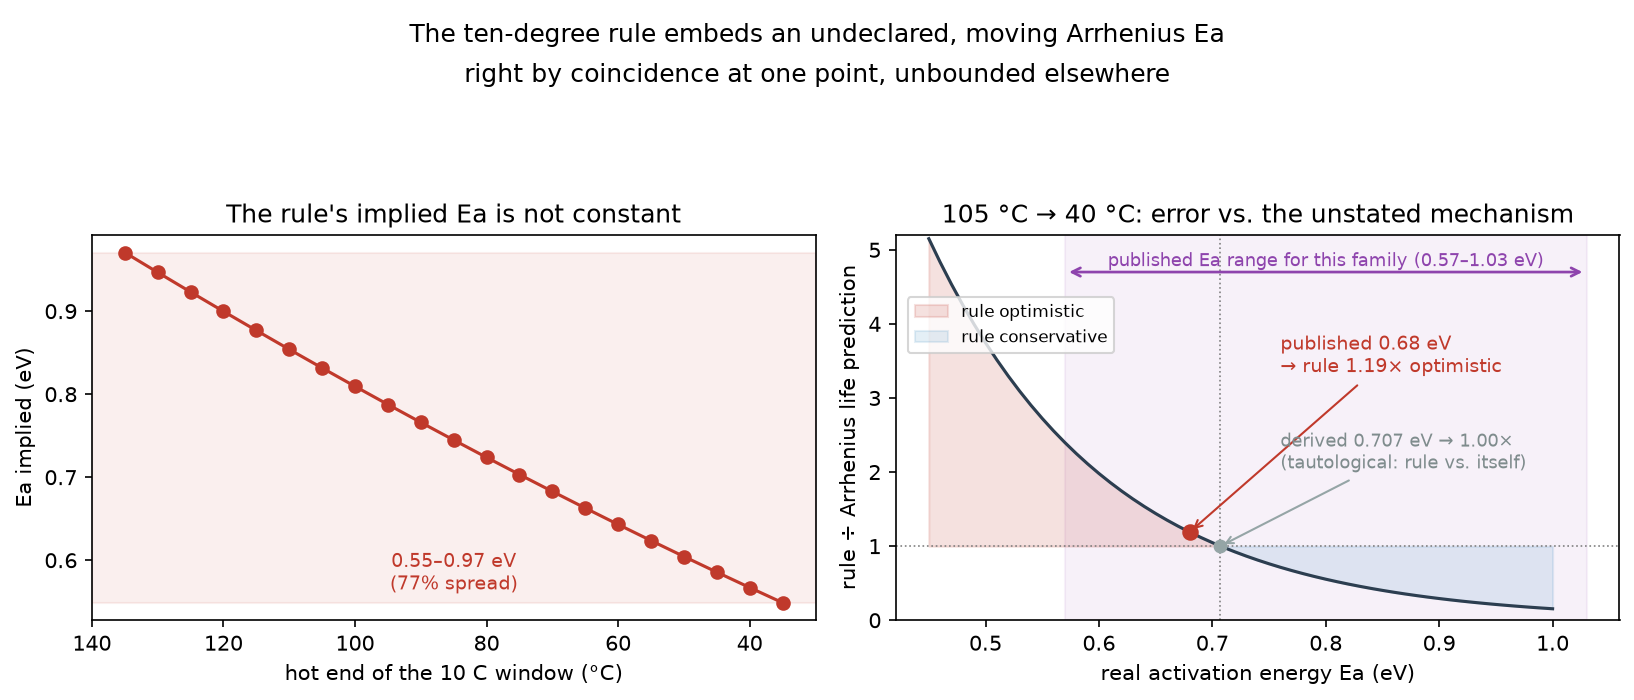
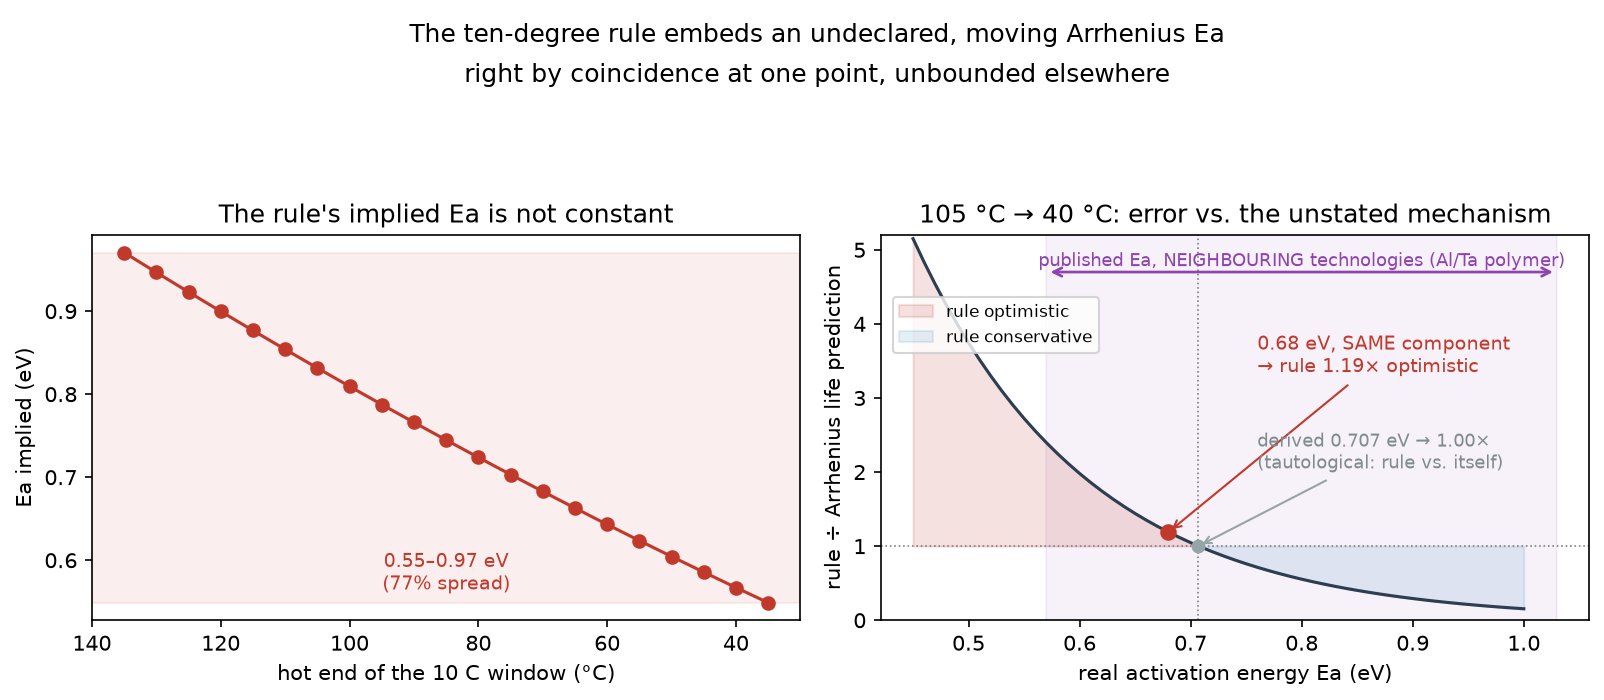
Fix population mixing: only 1 of 6 published Ea is the rule's own target
The user asked directly: "why are we mixing populations?" The answer:
of the six activation energies pulled from the Teverovsky/NASA paper,
only 0.68 eV is measured on liquid aluminum electrolytic capacitors --
the rule's actual target. The other five (0.57, 0.62, 0.73, 0.94, 1.03)
are aluminum- or tantalum-POLYMER capacitors: solid cathode, no liquid
electrolyte, a different dominant aging mechanism. Presenting all six
as "the published Ea for this component family" was equivocation --
the same failure class as the earlier unsourced claim, this time
wearing a real citation that was never scope-checked.

Corrected everywhere:
- verify.py: PUBLISHED_EA now carries an explicit technology field and
  is_rule_target flag; no row can be reported without its technology.
- README SS5 rewritten: the table separates the one same-component
  point from the five neighbouring-technology points; the "crosses
  the rule" finding is now scoped correctly as a claim about
  TRANSFERRING the rule across technologies, not about the intrinsic
  uncertainty of its own target mechanism.
- references.md SS4 documents the correction inline, with the exact
  question that caught it.
- plot.py: the purple band is now labelled "NEIGHBOURING technologies"
  and the red point is labelled "SAME component" to make the
  distinction visible, not just textual.
- 4 tests replaced/added (22 total): pins is_rule_target to exactly
  one row, splits the neighbouring-technology assertions out, and
[…]

diff --git a/verify.py b/verify.py
@@ -106,14 +106,24 @@ def check_bias(l_rated: float = 5000.0, t_rated_c: float = 105.0, t_use_c: float
 # --------------------------------------------------- the published Ea values
 # Every value below was read in full context from Teverovsky, A., "Stress
 # Testing of Chip Aluminum Polymer Capacitors" (NASA GSFC / Jacobs, PCNS).
-# Nothing here comes from a search-engine summary. See references.md §4.
+# Nothing here comes from a search-engine summary. See references.md SS4-5.
+#
+# TECHNOLOGY MATTERS. Only ONE of these six values (0.68 eV) is measured on
+# the rule's actual target component -- liquid aluminum electrolytic
+# capacitors. The other five are aluminum-POLYMER or tantalum-POLYMER parts:
+# solid conductive cathode, no liquid electrolyte, a different dominant aging
+# mechanism. An earlier version of this file listed all six as if they were
+# six estimates of the same quantity -- that was equivocation, caught after
+# the user asked "why are we mixing populations?". Corrected here: each row
+# now carries its technology explicitly, and no function may report a value
+# without it.
 PUBLISHED_EA = [
-    (0.57, "lower bound, measured ESR failures (this study)"),
-    (0.62, "polymer tantalum, average cited [ref 17]"),
-    (0.68, "the rule's own equivalence, as stated by NASA"),
-    (0.73, "aluminum polymer, average MEASURED in this study"),
-    (0.94, "CDE published Ea in their APC life equation"),
-    (1.03, "upper bound, measured ESR failures (this study)"),
+    (0.68, "liquid aluminum electrolytic", "the rule's own target: NASA's stated equivalence"),
+    (0.57, "aluminum polymer", "lower bound, measured ESR failures (this study)"),
+    (0.62, "tantalum polymer", "average cited in this study [ref 17]"),
+    (0.73, "aluminum polymer", "average MEASURED in this study"),
+    (0.94, "aluminum polymer", "CDE published Ea in their own APC life equation"),
+    (1.03, "aluminum polymer", "upper bound, measured ESR failures (this study)"),
 ]
 
 
@@ -122,18 +132,21 @@ def check_published_ea(t_rated_c: float = 105.0, t_use_c: float = 40.0) -> list[
 
     This is the honest version of `check_bias`: instead of sweeping arbitrary
     round numbers, it uses only activation energies that appear in a source
-    that was read in full. The spread of the published values is itself the
-    finding -- the rule cannot know which of them applies to the part in hand.
+    that was read in full -- tagged with the actual component technology,
+    because the technology, not just the number, decides whether a row is
+    evidence about the rule's own target or about a neighbouring one.
     """
-    l_rule = l_rated_af = ten_degree_rule_af(t_rated_c, t_use_c)
+    l_rule = ten_degree_rule_af(t_rated_c, t_use_c)
     rows = []
-    for ea, source in PUBLISHED_EA:
+    for ea, technology, source in PUBLISHED_EA:
         af_arr = math.exp((ea / K_BOLTZMANN_EV)
                           * (1.0 / celsius_to_kelvin(t_use_c)
                              - 1.0 / celsius_to_kelvin(t_rated_c)))
         ratio = l_rule / af_arr
         rows.append({
             "ea_ev": ea,
+            "technology": technology,
+            "is_rule_target": technology == "liquid aluminum electrolytic",
             "rule_over_real": round(ratio, 2),
             "direction": "optimistic" if ratio > 1 else "conservative",
             "source": source,
@@ -198,9 +211,16 @@ def main() -> None:
 
     pub = check_published_ea()
     _print_table("The rule vs. PUBLISHED Ea values (105 C -> 40 C) -- all read in full context", pub)
-    rr = [r["rule_over_real"] for r in pub]
-    print(f"\n  across published values the rule ranges {min(rr):.2f}x to {max(rr):.2f}x")
-    print("  -- and carries no information that would tell you which row you are on.")
+    target = [r for r in pub if r["is_rule_target"]]
+    neighbours = [r for r in pub if not r["is_rule_target"]]
+    print(f"\n  ONLY {len(target)} row matches the rule's own target component "
+          f"(liquid aluminum electrolytic): {target[0]['rule_over_real']:.2f}x")
+    nn = [r["rule_over_real"] for r in neighbours]
+    print(f"  The other {len(neighbours)} rows are NEIGHBOURING technologies (aluminum/tantalum")
+    print(f"  polymer) -- carrying the rule across that boundary swings the error from "
+          f"{min(nn):.2f}x to {max(nn):.2f}x.")
+    print("  Do not read this as six estimates of one uncertainty. It is one confirmed")
+    print("  point plus a caution about applying the rule outside its own technology.")
 
     sens = check_ea_sensitivity()
     print("\n=== Why Ea is not a detail ===")

diff --git a/tests/test_verify.py b/tests/test_verify.py
@@ -77,28 +77,48 @@ def test_acima_de_707_a_regra_fica_conservadora():
 
 
 # ---- os Ea PUBLICADOS (README secao 5) -- a comparacao que nao e circular ----
+# ATENCAO: so 1 das 6 linhas mede o MESMO componente da regra (eletrolitico
+# de aluminio liquido). As outras 5 sao tecnologia vizinha (polimero). Ver o
+# corolario "por que estamos misturando populacoes" em auditar-como-fellow.
 
-def test_contra_o_ea_publicado_a_regra_e_19pct_otimista():
-    """Contra o 0.68 eV que a NASA enuncia, a regra NAO coincide: erra 1.19x."""
-    linha = next(r for r in check_published_ea() if r["ea_ev"] == 0.68)
+def test_so_uma_linha_e_o_alvo_real_da_regra():
+    """A distincao de tecnologia e o achado desta rodada de auditoria: nao e
+    '6 estimativas da mesma incerteza', e 1 ponto confirmado + 5 de outra
+    tecnologia. Nenhuma funcao pode apagar essa distincao."""
+    tabela = check_published_ea()
+    alvo = [r for r in tabela if r["is_rule_target"]]
+    assert len(alvo) == 1
+    assert alvo[0]["ea_ev"] == 0.68
+    assert alvo[0]["technology"] == "liquid aluminum electrolytic"
+
+
+def test_contra_o_unico_ea_do_mesmo_componente_a_regra_e_19pct_otimista():
+    """Contra o 0.68 eV que a NASA enuncia PARA O MESMO COMPONENTE da regra,
+    ela nao coincide: erra 1.19x. Esta e a comparacao que sustenta o post."""
+    linha = next(r for r in check_published_ea() if r["is_rule_target"])
     assert linha["rule_over_real"] == 1.19
     assert linha["direction"] == "optimistic"
 
 
-def test_a_faixa_publicada_atravessa_a_neutralidade():
-    """O achado: os Ea publicados nao cercam a regra, eles a atravessam --
-    de 2.4x otimista a 0.13x conservadora, com inversao de sinal no meio."""
-    tabela = check_published_ea()
-    razoes = [r["rule_over_real"] for r in tabela]
+def test_tecnologia_vizinha_atravessa_a_neutralidade():
+    """O achado sobre TRANSFERIR a regra entre tecnologias (nao sobre a
+    incerteza intrinseca do proprio alvo): entre alumino/tantalo polimero,
+    o erro vai de 2.4x otimista a 0.13x conservadora."""
+    vizinhas = [r for r in check_published_ea() if not r["is_rule_target"]]
+    assert len(vizinhas) == 5
+    razoes = [r["rule_over_real"] for r in vizinhas]
     assert max(razoes) == 2.40
     assert min(razoes) == 0.13
     assert any(r > 1 for r in razoes) and any(r < 1 for r in razoes), \
         "a faixa tem que cruzar 1.0, senao o argumento da direcao cai"
 
 
-def test_toda_linha_publicada_tem_fonte():
-    """Nenhum Ea entra na tabela sem procedencia declarada."""
-    assert all(r["source"].strip() for r in check_published_ea())
+def test_toda_linha_publicada_tem_fonte_e_tecnologia():
+    """Nenhum Ea entra na tabela sem procedencia declarada E sem tecnologia
+    explicita -- e a tecnologia que faltava antes desta correcao."""
+    tabela = check_published_ea()
+    assert all(r["source"].strip() for r in tabela)
+    assert all(r["technology"].strip() for r in tabela)
 
 
 def test_4pct_em_ea_vira_19pct_em_horas():

diff --git a/plot.py b/plot.py
@@ -43,20 +43,21 @@ def main() -> None:
     ax2.fill_between(eas2, ratios, 1.0, where=[r <= 1.0 for r in ratios],
                       color="#2980b9", alpha=0.12, label="rule conservative")
 
-    # The band of Ea values actually PUBLISHED for this component family
-    # (Teverovsky/NASA: 0.57-1.03 eV measured). It does not bracket the rule --
-    # it crosses it, so the error changes sign inside the published range.
+    # The band of Ea values published for NEIGHBOURING technologies (aluminum-
+    # and tantalum-POLYMER capacitors, Teverovsky/NASA: 0.57-1.03 eV measured).
+    # Not the rule's own target -- see README SS5 for why this distinction matters.
     ax2.axvspan(0.57, 1.03, color="#8e44ad", alpha=0.07, zorder=0)
     ax2.annotate("", xy=(0.57, 4.7), xytext=(1.03, 4.7),
                  arrowprops=dict(arrowstyle="<->", color="#8e44ad", lw=1.3))
-    ax2.text(0.80, 4.78, "published Ea range for this family (0.57–1.03 eV)",
+    ax2.text(0.80, 4.78, "published Ea, NEIGHBOURING technologies (Al/Ta polymer)",
              ha="center", fontsize=8.5, color="#8e44ad")
 
     # The two anchor points, kept visually distinct: one is the rule talking to
-    # itself (tautological), the other is an independent statement.
+    # itself (tautological), the other is the ONE value for the rule's actual
+    # target component (liquid aluminum electrolytic) -- not just "published".
     ax2.scatter([0.707], [1.0], color="#95a5a6", zorder=5, s=32)
     ax2.scatter([0.68], [1.19], color="#c0392b", zorder=6, s=48)
-    ax2.annotate("published 0.68 eV\n→ rule 1.19× optimistic",
+    ax2.annotate("0.68 eV, SAME component\n→ rule 1.19× optimistic",
                  xy=(0.68, 1.19), xytext=(0.76, 3.35), fontsize=9, color="#c0392b",
                  arrowprops=dict(arrowstyle="->", color="#c0392b"))
     ax2.annotate("derived 0.707 eV → 1.00×\n(tautological: rule vs. itself)",

diff --git a/README.md b/README.md
@@ -23,11 +23,14 @@ what that silence costs.
   ~0.68 eV" for liquid aluminum electrolytic capacitors — **within 4% of the derived value**.
   That 4% gap in `Ea` becomes a **19% gap in predicted hours**, which is the cheapest available
   proof that `Ea` is not a secondary detail.
-- **The rule is right by coincidence, not by construction.** Measured against the activation
-  energies actually published for this component family (0.57–1.03 eV), the rule ranges from
-  **2.40× optimistic to 0.13× conservative** — the published range does not bracket the rule, it
-  *crosses* it. The rule carries no mechanism information, so it cannot tell you which row you
-  are on.
+- **The rule is right by coincidence, not by construction.** The only published `Ea` for the
+  rule's exact target (liquid aluminum electrolytic) confirms it within 4%. But the rule carries
+  no mechanism information, so nothing stops it being applied — as marketing shortcuts often are
+  — to a neighbouring technology: across aluminum-polymer and tantalum-polymer capacitors, `Ea`
+  measured in the same study ranges 0.57–1.03 eV, and carrying the rule there swings the error
+  from **2.40× optimistic to 0.13× conservative**. See [§5](#5-checked-against-published-activation-energies--a-scope-correction)
+  for exactly which value belongs to which technology — an earlier version of this repository
+  blurred that distinction, and the correction is documented, not hidden.
 - **Three competing manufacturers (Rubycon, Nichicon, Nippon Chemi-Con) independently confirm**
   the rule holds only in a bounded temperature window — see [`references.md`](references.md).
 - Fully reproducible: standard-library-only `verify.py`, 14 automated tests, every citation
@@ -164,25 +167,46 @@ applicability limit sits at the edge of a routine extrapolation, not far past it
 repository adds is *how much* the deviation costs (§1–§3), which none of the three quantify.
 Full citations and quotes-in-context in [`references.md`](references.md).
 
-## 5. Checked against published activation energies
+## 5. Checked against published activation energies — and a scope correction
 
-§3's table sweeps round numbers. This section uses only activation energies taken from a source
-read in full context: Teverovsky, A. (NASA GSFC / Jacobs Technology), **"Stress Testing of Chip
-Aluminum Polymer Capacitors"**, PCNS proceedings. Same span as §3 (105 °C → 40 °C):
+§3's table sweeps round numbers. This section checks the derivation against activation energies
+taken from a source read in full context: Teverovsky, A. (NASA GSFC / Jacobs Technology),
+**"Stress Testing of Chip Aluminum Polymer Capacitors"**, PCNS proceedings.
 
-| Ea (eV) | rule ÷ real | direction | where the number comes from |
+**An earlier version of this section presented six values from that paper as if they were six
+estimates of the same quantity — the uncertainty in `Ea` for the rule's own target component
+(liquid aluminum electrolytic capacitors).** That was wrong, and it was the same failure mode as
+the earlier unsourced claim in §Flagged, wearing a different disguise: this time the citation was
+real, but its *scope* was not checked before the numbers went into a table together. Only one of
+the six values is actually about the component this repository's rule targets. The other five are
+about **neighbouring capacitor technologies** — corrected below.
+
+| Ea (eV) | rule ÷ real | technology | source |
 |---|---|---|---|
-| 0.57 | **2.40×** | optimistic | lower bound, measured ESR failures (that study) |
-| 0.62 | 1.74× | optimistic | polymer tantalum, average cited in that study |
-| 0.68 | **1.19×** | optimistic | the rule's own equivalence, as stated by NASA |
-| 0.73 | 0.87× | conservative | aluminum polymer, average **measured** in that study |
-| 0.94 | 0.23× | conservative | CDE's published `Ea` in their APC life equation |
-| 1.03 | 0.13× | conservative | upper bound, measured ESR failures (that study) |
+| 0.68 | **1.19×** | **liquid aluminum electrolytic** — the rule's own target | the rule's stated equivalence, per NASA |
+| 0.57 | 2.40× | aluminum *polymer* (solid, no liquid electrolyte) | lower bound, measured ESR failures (that study) |
+| 0.62 | 1.74× | tantalum *polymer* — a different base metal and electrolyte entirely | average cited in that study, ref. [17] |
+| 0.73 | 0.87× | aluminum *polymer* | average measured in that study |
+| 0.94 | 0.23× | aluminum *polymer* | CDE's published `Ea` in their own life equation |
+| 1.03 | 0.13× | aluminum *polymer* | upper bound, measured ESR failures (that study) |
 
-**Across published values the rule ranges from 2.40× optimistic to 0.13× conservative — and it
-carries no information that would tell you which row you are on.** Note that the published range
-does not bracket the rule; it *crosses* it, changing sign in the middle. That is the practical
-finding: the error is not a bounded uncertainty, it is a sign-changing one.
+**Only the first row shares the rule's exact target component.** It gives a single, well-anchored
+check: `Ea` = 0.68 eV against the 0.707 eV derived here, a 1.19× error — see the exact-match
+discussion below. The other five rows measure aluminum-polymer and tantalum-polymer capacitors,
+which do not carry liquid electrolyte and do not degrade by the mechanism (electrolyte
+evaporation through the seal) this rule was written for. Reporting them next to the liquid-type
+value as if they resolved the same uncertainty would be equivocation — the same word, "capacitor,"
+covering two different populations in the same argument.
+
+**What the five neighbouring values still show, correctly scoped:** even within one broad
+engineering family — electrolytic-style capacitors built around aluminum or tantalum — the
+activation energy is not a fixed property of "the capacitor." It swings from 0.57 to 1.03 eV
+across technologies that a designer could plausibly confuse under the same rule of thumb. If
+someone carries the 10-degree rule across that boundary — treating a polymer part's life like a
+liquid electrolytic's, which is an easy mistake since both ship in the same case outlines and
+both are marketed with the same doubling shortcut — the error swings from 2.40× optimistic to
+0.13× conservative. **That is a real finding. It is a finding about transferring the rule across
+component families, not about the uncertainty of one family's own mechanism.**
 
 ### The rule's stated equivalence, and what it costs
 
@@ -210,13 +234,14 @@ disagreement in predicted hours ... 19.0%
 an exponent. Anyone who treats the activation energy as a secondary detail is discarding 19% of
 the result on a rounding difference.
 
-**The honest conclusion.** For liquid aluminum electrolytic capacitors over this span, the rule's
-hidden `Ea` lands in the right neighbourhood — near the conventionally quoted ~0.68 eV, and inside
-the 0.57–1.03 eV band actually measured for related parts. The rule works here. But it works
-without carrying any mechanism information, so it cannot signal when it stops working: at a
-different span (§2), a different window (§1), or a different component whose dominant mechanism
-sits elsewhere in that band, the same rule produces the errors above with exactly the same
-confidence.
+**The honest conclusion, correctly scoped.** For liquid aluminum electrolytic capacitors over
+this span, the rule's hidden `Ea` lands close to the one value actually published for that exact
+component (~0.68 eV against 0.707 eV derived) — a 4% gap in `Ea`, 19% in predicted hours. The
+rule works here. But it works without carrying any mechanism information, so it cannot signal
+when it stops working: at a different span (§2), a different window (§1), or a different
+*technology* whose dominant mechanism sits elsewhere in the 0.57–1.03 eV band measured for
+neighbouring capacitor families (§5 above), the same rule produces the errors shown with exactly
+the same confidence — and nothing about the rule's formula would tell you which case you are in.
 
 > A rule that is right for reasons it cannot state is a rule you cannot audit. That is the
 > finding — not that the number is wrong.

diff --git a/references.md b/references.md
@@ -120,26 +120,47 @@ derives `Ea` = 0.707 eV as the value the rule embeds over the 105 °C → 40 °C
 states ~0.68 eV for the same rule and the same component class — a 4% difference,
 arrived at independently.
 
+**Consequence for the derivation:** for liquid aluminum electrolytic capacitors — the
+rule's own target — over this particular span, the rule's hidden `Ea` lands close to the
+one value actually published for that exact component: a 4% gap in `Ea`, 19% in
+predicted hours (see the arithmetic in README §5). The rule is right here, but by
+coincidence rather than by construction, since it carries no mechanism information that
+would tell a user when the coincidence stops holding.
+
+### ⚠ Correction (2026-08-17): five of six published values are a different technology
+
 The same study's own accelerated-life measurements (high-temperature storage at 100,
-125 and 150 °C on seven types of aluminum polymer capacitors, a neighbouring technology)
-found, §III:
+125 and 150 °C on seven types of **aluminum polymer** capacitors — solid conductive
+cathode, no liquid electrolyte, a different dominant aging mechanism) found, §III:
 
 > "Activation energies of the degradation varied from 0.64 to 0.9 eV for capacitance and
 > in somewhat wider range, from 0.57 to 1.03 eV for ESR failures. However, the average
 > activation energies were practically the same, Ea_C = 0.73 ± 0.1 eV, and
 > Ea_ESR = 0.73 ± 0.16 eV."
 
-Both bracket the derived 0.707 eV. **Consequence for this repository's framing:** for
-liquid aluminum electrolytic capacitors over this particular span, the rule's hidden
-`Ea` lands close to the conventionally accepted one — the rule is right here, but by
-coincidence rather than by construction, since it carries no mechanism information that
-would tell a user when the coincidence stops holding.
+CDE's own published life equation for aluminum polymer capacitors gives `Ea` = 0.94 eV
+(cited in that study, ref. [2]); a polymer-tantalum average of 0.62 eV is also cited
+(ref. [17]).
 
-⚠ **Read the scope carefully.** The 0.68 eV quote is about the *rule's assumed
-equivalence for liquid aluminum electrolytic capacitors*; the 0.73 eV measurements are
-on *aluminum polymer* capacitors (a different construction, no liquid electrolyte). They
-are consistent with each other and with the derivation, but they are not the same claim,
-and this repository does not merge them.
+**An earlier version of this repository's README and the LinkedIn post built from it
+presented all six values — 0.57, 0.62, 0.68, 0.73, 0.94, 1.03 eV — as if they were six
+estimates of the same uncertainty, "the published Ea for this component family."** That
+was caught by the user asking directly: *"why are we mixing populations?"* The honest
+answer is that only **0.68 eV is measured on the rule's actual target** (liquid
+aluminum electrolytic). The other five — 0.57, 0.62, 0.73, 0.94, 1.03 — are aluminum-
+or tantalum-**polymer** capacitors, a neighbouring but distinct technology. Presenting
+them next to the 0.68 eV value under one label was equivocation: the word "capacitor"
+covering two different populations in the same table.
+
+**What survives the correction, correctly scoped:** the single liquid-electrolytic data
+point still confirms the derivation (§5 above). The five polymer values still support a
+narrower, different claim — that `Ea` is not a fixed property even across
+closely-related capacitor technologies, so carrying the rule from one technology to
+another (a plausible mistake, since both are marketed with the same doubling shortcut)
+produces errors from 2.40× optimistic to 0.13× conservative. That is a claim about
+**transferring the rule across technologies**, not about the intrinsic uncertainty of
+the rule's own target mechanism. See README §5 for the corrected table, with every row
+tagged by technology.
 
 ## 5. Checked, no usable data
 
